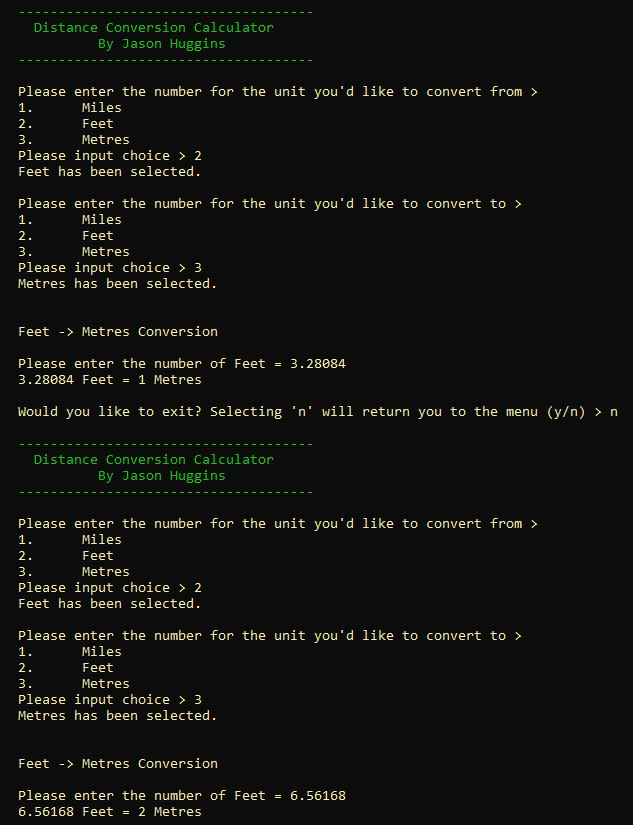
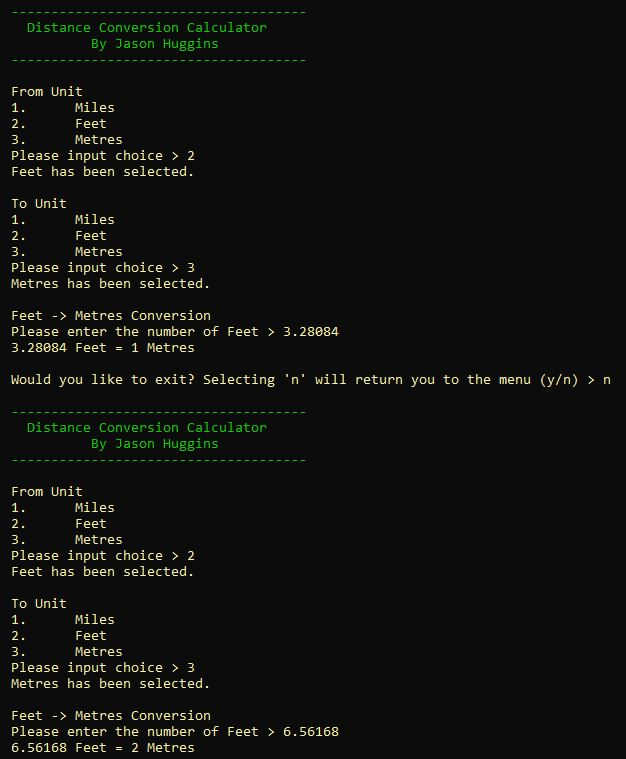
Updated App01 testing screenshots and class diagram again

diff --git a/ConsoleAppProject/App01/DistanceConverter.cs b/ConsoleAppProject/App01/DistanceConverter.cs
@@ -9,7 +9,7 @@ namespace ConsoleAppProject.App01
     /// and displaying the result to the user afterwards.
     /// </summary>
     /// <author>
-    /// Jason Huggins (modified 14/02/2021)
+    /// Jason Huggins (modified 15/02/2021)
     /// </author>
     public class DistanceConverter
     {
@@ -42,12 +42,10 @@ namespace ConsoleAppProject.App01
         {
             ConsoleHelper.OutputHeading("Distance Conversion Calculator");
 
-            FromUnit = SelectUnit("Please enter the number for " +
-                "the unit you'd like to convert from > ");
-            ToUnit = SelectUnit("Please enter the number for " +
-                "the unit you'd like to convert to > ");
+            FromUnit = SelectUnit("From Unit");
+            ToUnit = SelectUnit("To Unit");
 
-            Console.WriteLine($"\n\t{FromUnit} -> {ToUnit} Conversion");
+            Console.WriteLine($"\t{FromUnit} -> {ToUnit} Conversion");
 
             FromDistance = ConsoleHelper.InputNumber($"\tPlease enter the number of {FromUnit} > ");
 
